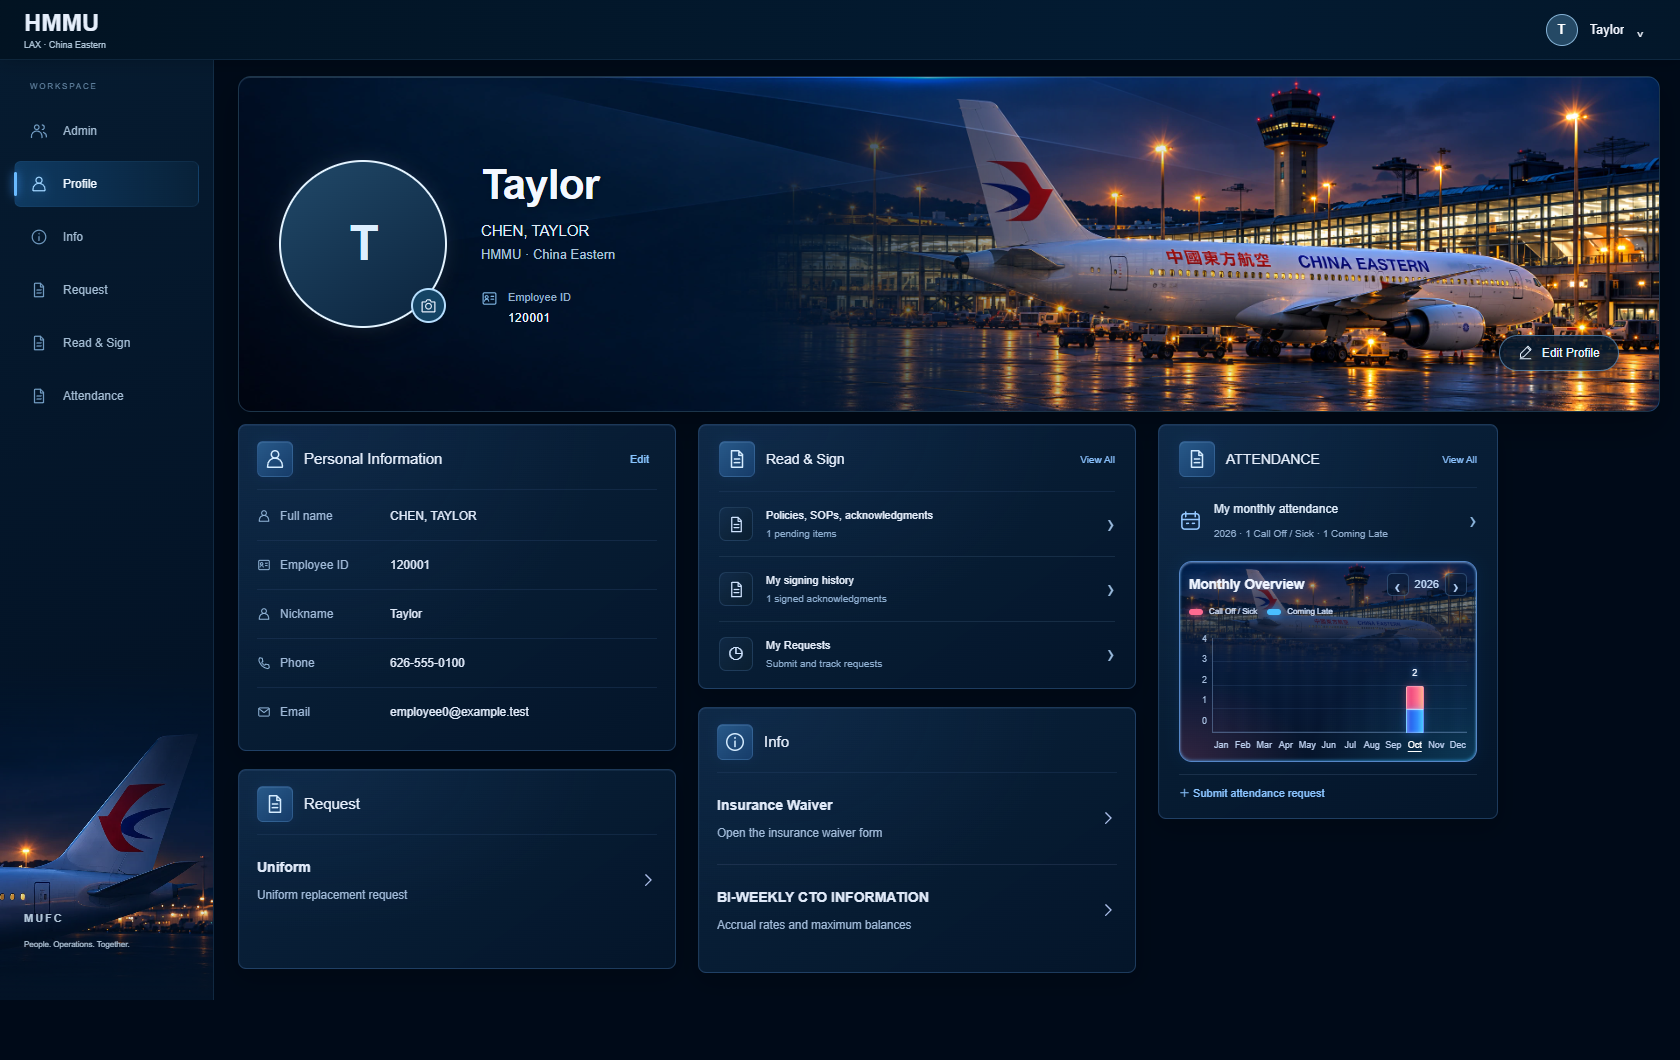
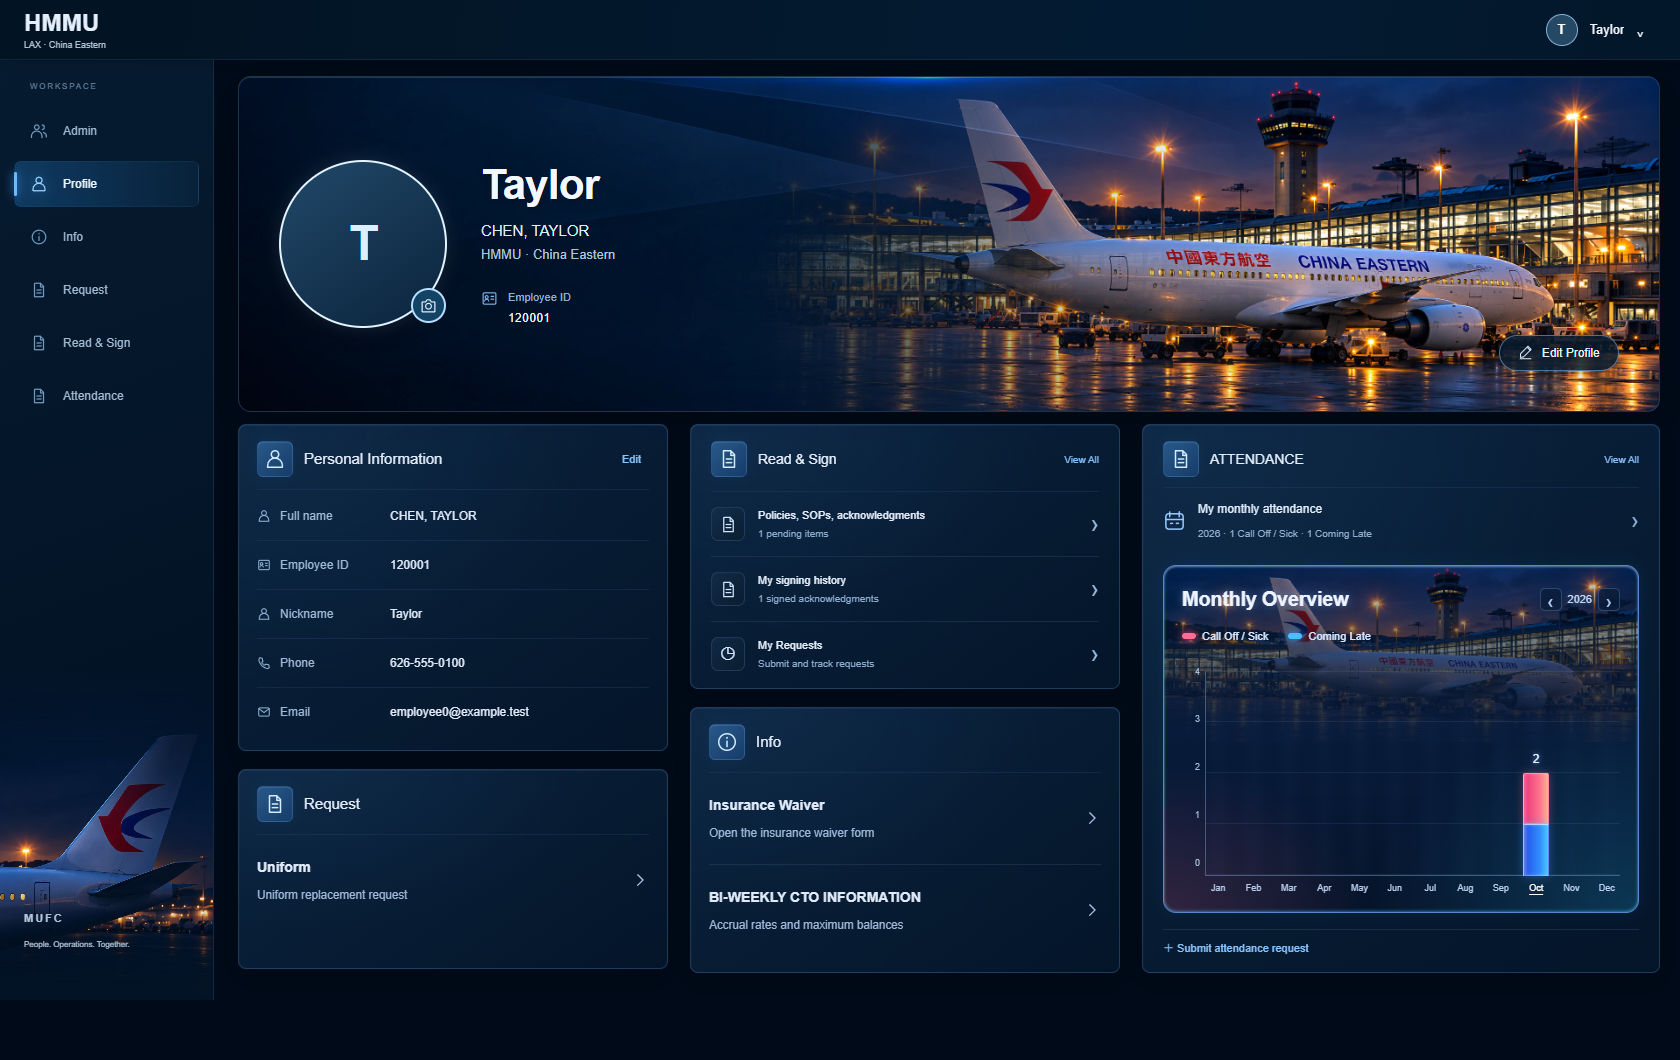
Enlarge Attendance panels and align Profile card bottoms

Changed region(s): [[0.65, 0.3736, 0.9905, 0.934], [0.3714, 0.4047, 0.5571, 0.9028]]

diff --git a/public/public/profile.html b/public/public/profile.html
@@ -1,7 +1,7 @@
 <!doctype html>
 <html lang="en"><head><meta charset="utf-8"><meta name="viewport" content="width=device-width,initial-scale=1"><title>MUFC · Profile</title>
-<link rel="stylesheet" href="/profile.css?v=20261018-monthly-overview"><link rel="stylesheet" href="/portal-cards.css?v=20261018-monthly-overview">
-<script defer src="https://www.gstatic.com/firebasejs/10.12.2/firebase-app-compat.js"></script><script defer src="https://www.gstatic.com/firebasejs/10.12.2/firebase-auth-compat.js"></script><script defer src="/__/firebase/init.js"></script><script defer src="/employee-profile-api.js"></script><script defer src="/flight-account.js?v=20261017-profile-access"></script><script defer src="/employee-phone.js"></script><script defer src="/profile.js?v=20261017-profile-access"></script><link rel="stylesheet" href="/read-sign.css?v=20261018-monthly-overview"><script defer src="/people-api.js?v=20261018"></script><script defer src="/attendance-overview.js?v=20261018-overview"></script><script defer src="/profile-modules.js?v=20261018-overview"></script></head>
+<link rel="stylesheet" href="/profile.css?v=20261018-large-panels"><link rel="stylesheet" href="/portal-cards.css?v=20261018-large-panels">
+<script defer src="https://www.gstatic.com/firebasejs/10.12.2/firebase-app-compat.js"></script><script defer src="https://www.gstatic.com/firebasejs/10.12.2/firebase-auth-compat.js"></script><script defer src="/__/firebase/init.js"></script><script defer src="/employee-profile-api.js"></script><script defer src="/flight-account.js?v=20261017-profile-access"></script><script defer src="/employee-phone.js"></script><script defer src="/profile.js?v=20261017-profile-access"></script><link rel="stylesheet" href="/read-sign.css?v=20261018-large-panels"><script defer src="/people-api.js?v=20261018"></script><script defer src="/attendance-overview.js?v=20261018-overview"></script><script defer src="/profile-modules.js?v=20261018-overview"></script></head>
 <body class="profile-page">
 <svg class="profile-symbols" aria-hidden="true" xmlns="http://www.w3.org/2000/svg"><defs>
 <symbol id="icon-home" viewBox="0 0 24 24"><path d="m3 10 9-7 9 7M5 9v12h5v-7h4v7h5V9"/></symbol>

diff --git a/public/public/read-sign.css b/public/public/read-sign.css
@@ -100,3 +100,22 @@
 @media(max-width:600px){.attendance-workspace .attendance-record-summary{display:grid;grid-template-columns:74px minmax(0,1fr) 12px;gap:6px}.attendance-workspace .attendance-row-type{width:auto}.attendance-workspace .attendance-row-reason{max-width:none;grid-column:1/3;grid-row:2}.attendance-workspace .attendance-row-arrival{grid-column:1/3;grid-row:3}.attendance-workspace .attendance-row-chevron{grid-column:3;grid-row:1/4}}
 @media(max-width:600px){.attendance-overview .overview-heading>strong{font-size:13px}.overview-year-controls{gap:4px}.attendance-overview .overview-year-controls button{width:20px}.overview-columns{gap:2px}.attendance-overview .overview-month{font-size:8px}}
 .attendance-overview{background:linear-gradient(180deg,#05163330 0%,#071b3ba6 27%,#071b3bf5 48%,#06142a 100%),url('/assets/profile-ce777-night-v10.webp') right top/100% auto no-repeat,#06142a}
+
+/* Larger overview and record frames follow the desktop reference proportions. */
+@media(min-width:1251px){
+ .attendance-workspace{grid-template-columns:minmax(0,650px) minmax(0,760px);max-width:1440px;gap:30px;align-items:stretch}
+ .attendance-workspace>.profile-panel{min-height:570px;padding:24px}
+ .attendance-workspace .attendance-monthly{max-width:none;display:flex;flex-direction:column}
+ .attendance-workspace .attendance-monthly-heading h2{font-size:18px}
+ .attendance-workspace .attendance-overview{flex:1;display:flex;flex-direction:column;padding:20px 18px 16px;margin-top:20px}
+ .attendance-workspace .overview-heading>strong{font-size:22px}
+ .attendance-workspace .overview-legend{font-size:12px;margin:16px 0 30px;gap:22px}
+ .attendance-workspace .overview-plot{margin-top:auto}
+ .attendance-workspace .overview-axis,.attendance-workspace .overview-track{height:300px}
+ .attendance-workspace .overview-month{font-size:12px}
+ .attendance-workspace .overview-columns{gap:10px}
+ .attendance-workspace .overview-stack{max-width:36px}
+ .attendance-workspace .overview-bar-total{font-size:12px}
+ .attendance-workspace .attendance-record-summary{padding:16px 0;font-size:12px}
+ .attendance-workspace .attendance-row-reason{max-width:280px}
+}

diff --git a/public/public/attendance.html b/public/public/attendance.html
@@ -1,7 +1,7 @@
 <!doctype html>
 <html lang="en"><head><meta charset="utf-8"><meta name="viewport" content="width=device-width,initial-scale=1"><title>HMMU · Attendance</title>
-<link rel="stylesheet" href="/profile.css?v=20261018-monthly-overview"><link rel="stylesheet" href="/portal-cards.css?v=20261018-monthly-overview">
-<script defer src="https://www.gstatic.com/firebasejs/10.12.2/firebase-app-compat.js"></script><script defer src="https://www.gstatic.com/firebasejs/10.12.2/firebase-auth-compat.js"></script><script defer src="/__/firebase/init.js"></script><script defer src="/employee-profile-api.js"></script><script defer src="/flight-account.js?v=20261017-profile-access"></script><script defer src="/employee-phone.js"></script><link rel="stylesheet" href="/read-sign.css?v=20261018-monthly-overview"><script defer src="/people-api.js?v=20261018"></script><script defer src="/attendance-overview.js?v=20261018-overview"></script><script defer src="/attendance-history.js?v=20261018-overview"></script></head>
+<link rel="stylesheet" href="/profile.css?v=20261018-large-panels"><link rel="stylesheet" href="/portal-cards.css?v=20261018-large-panels">
+<script defer src="https://www.gstatic.com/firebasejs/10.12.2/firebase-app-compat.js"></script><script defer src="https://www.gstatic.com/firebasejs/10.12.2/firebase-auth-compat.js"></script><script defer src="/__/firebase/init.js"></script><script defer src="/employee-profile-api.js"></script><script defer src="/flight-account.js?v=20261017-profile-access"></script><script defer src="/employee-phone.js"></script><link rel="stylesheet" href="/read-sign.css?v=20261018-large-panels"><script defer src="/people-api.js?v=20261018"></script><script defer src="/attendance-overview.js?v=20261018-overview"></script><script defer src="/attendance-history.js?v=20261018-overview"></script></head>
 <body class="profile-page">
 <svg class="profile-symbols" aria-hidden="true" xmlns="http://www.w3.org/2000/svg"><defs>
 <symbol id="icon-home" viewBox="0 0 24 24"><path d="m3 10 9-7 9 7M5 9v12h5v-7h4v7h5V9"/></symbol>

diff --git a/public/public/portal-cards.css b/public/public/portal-cards.css
@@ -67,3 +67,21 @@
 .profile-dashboard .overview-axis,.profile-dashboard .overview-track{height:95px}
 .profile-dashboard .overview-legend{margin-bottom:20px;font-size:8px;gap:10px}
 .profile-dashboard .attendance-card .attendance-new{margin-top:12px}
+
+/* Scale the Profile attendance panel to the supplied wide desktop frame. */
+@media(min-width:1351px){
+ .profile-dashboard.profile-modules{max-width:1544px;grid-template-columns:minmax(0,430px) minmax(0,430px) minmax(0,640px);align-items:stretch}
+ .profile-dashboard .profile-activity-panels{display:flex;align-items:stretch}
+ .profile-dashboard .attendance-card{display:flex;flex:1;flex-direction:column;min-height:530px}
+ .profile-dashboard .attendance-overview{flex:1;display:flex;flex-direction:column;padding:18px 18px 12px;margin-top:12px}
+ .profile-dashboard .overview-heading>strong{font-size:20px}
+ .profile-dashboard .overview-legend{font-size:11px;margin:14px 0 26px;gap:20px}
+ .profile-dashboard .overview-axis,.profile-dashboard .overview-track{height:205px}
+ .profile-dashboard .overview-columns{gap:9px}
+ .profile-dashboard .overview-month{font-size:11px}
+ .profile-dashboard .overview-stack{max-width:34px}
+ .profile-dashboard .overview-bar-total{font-size:12px}
+ .profile-dashboard .attendance-card .attendance-new{margin-top:16px}
+}
+@media(min-width:851px) and (max-width:1350px){.profile-dashboard .profile-activity-panels{max-width:640px}.profile-dashboard .overview-axis,.profile-dashboard .overview-track{height:170px}}
+@media(min-width:1351px){.profile-dashboard .attendance-overview .overview-empty{position:absolute;top:58px;right:18px;margin:0;font-size:10px}}

diff --git a/docs/read-sign-attendance.md b/docs/read-sign-attendance.md
@@ -48,4 +48,9 @@ Profile attendance uses a compact chart card without stretching to match neighbo
 
 ## Monthly Overview chart
 
-The Profile Attendance card and Attendance details now use a shared annual stacked bar chart in place of the calendar. Pink represents Call Off / Sick; blue represents Coming Late. Each bar aggregates the authenticated employee's actual valid records for that month and displays its total. Zero months have no fabricated bar, and the vertical scale adjusts to the largest monthly total. Month buttons have accessible count labels and filter/navigate to the corresponding month; year controls change the displayed year. Existing date deep links, type/month filters and expandable record details remain supported. The night-airport background reuses the existing aircraft asset, while axes, labels and bars remain live DOM elements. The record panel is capped at 550px and places reason/arrival beside the date/type rather than pushing arrival to the far edge.
+The Profile Attendance card and Attendance details now use a shared annual stacked bar chart in place of the calendar. Pink represents Call Off / Sick; blue represents Coming Late. Each bar aggregates the authenticated employee's actual valid records for that month and displays its total. Zero months have no fabricated bar, and the vertical scale adjusts to the largest monthly total. Month buttons have accessible count labels and filter/navigate to the corresponding month; year controls change the displayed year. Existing date deep links, type/month filters and expandable record details remain supported. The night-airport background reuses the existing aircraft asset, while axes, labels and bars remain live DOM elements. The record panel is capped at 760px on wide desktops and 550px on narrower screens and places reason/arrival beside the date/type rather than pushing arrival to the far edge.
+
+
+## Enlarged Attendance frames
+
+On wide desktops the Profile Attendance column grows to 640px, with a larger chart and its bottom aligned to the Info card. The chart plot height is constrained so the card does not extend below its neighbor. Attendance details use up to 650px for the chart and 760px for records, equal-height frames of at least 570px, and larger labels/bars. Smaller screens retain the stacked layout and compact chart sizes.
